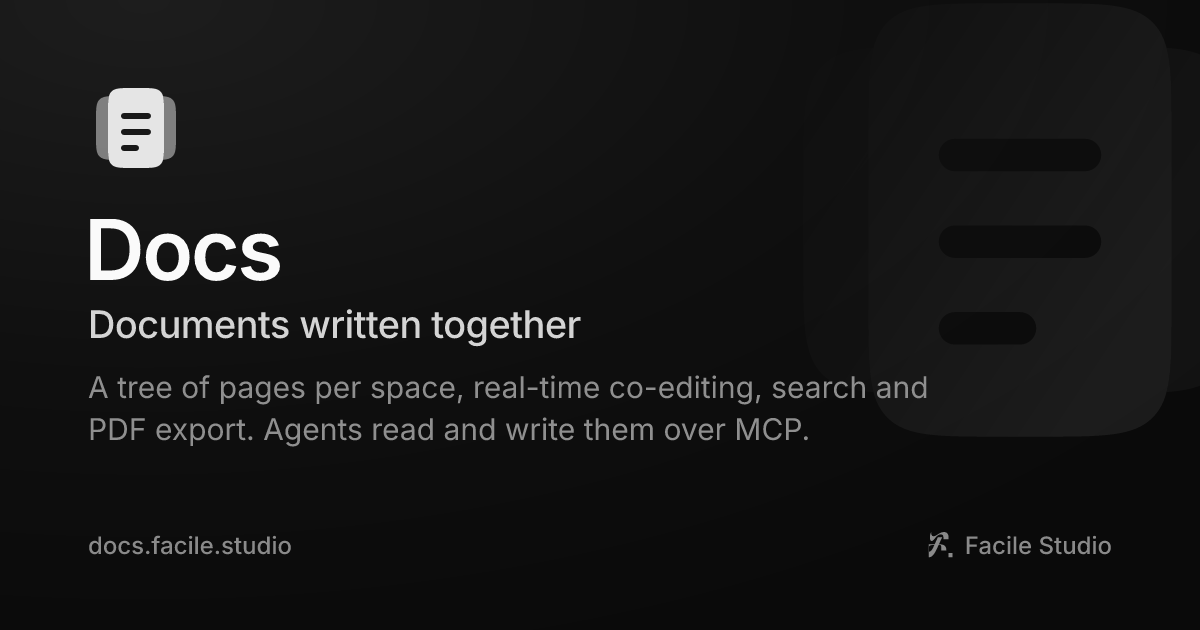
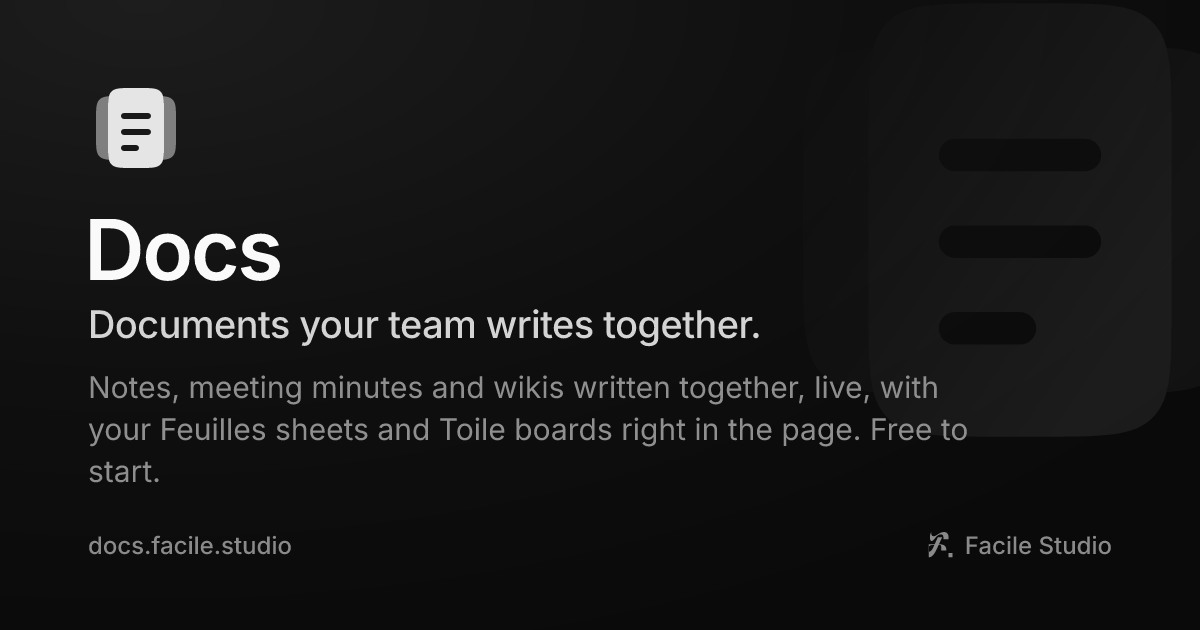
fix(client): show the new pitch in the link preview and manifest

diff --git a/apps/client/src/app.html b/apps/client/src/app.html
@@ -4,7 +4,7 @@
 		<meta charset="utf-8" />
 		<meta name="viewport" content="width=device-width, initial-scale=1" />
 		<meta name="color-scheme" content="light dark" />
-		<title>Docs · Documents your team writes together</title>
+		<title>Docs · Documents your team writes together.</title>
 		<meta name="description" content="Notes, meeting minutes and wikis written together, live, with your Feuilles sheets and Toile boards right in the page. Free to start." />
 		<link rel="icon" href="/favicon.svg" type="image/svg+xml" />
 		<link rel="icon" href="/favicon.ico" sizes="48x48" />
@@ -16,14 +16,14 @@
 		<meta property="og:site_name" content="Facile" />
 		<meta property="og:locale" content="en_US" />
 		<meta property="og:url" content="https://docs.facile.studio/" />
-		<meta property="og:title" content="Docs · Documents your team writes together" />
+		<meta property="og:title" content="Docs · Documents your team writes together." />
 		<meta property="og:description" content="Notes, meeting minutes and wikis written together, live, with your Feuilles sheets and Toile boards right in the page. Free to start." />
 		<meta property="og:image" content="https://docs.facile.studio/og-image.png" />
 		<meta property="og:image:width" content="1200" />
 		<meta property="og:image:height" content="630" />
-		<meta property="og:image:alt" content="Docs: Documents your team writes together" />
+		<meta property="og:image:alt" content="Docs: Documents your team writes together." />
 		<meta name="twitter:card" content="summary_large_image" />
-		<meta name="twitter:title" content="Docs · Documents your team writes together" />
+		<meta name="twitter:title" content="Docs · Documents your team writes together." />
 		<meta name="twitter:description" content="Notes, meeting minutes and wikis written together, live, with your Feuilles sheets and Toile boards right in the page. Free to start." />
 		<meta name="twitter:image" content="https://docs.facile.studio/og-image.png" />
 		<script>

diff --git a/apps/client/src/lib/components/Landing.svelte b/apps/client/src/lib/components/Landing.svelte
@@ -143,7 +143,7 @@
 			<ForDevelopers
 				{rows}
 				description={t('landing.dev.line')}
-				selfHostHref="https://suite.facile.studio/auto-hebergement"
+				selfHostHref={`https://suite.facile.studio/${locale() === 'fr' ? '' : `${locale()}/`}auto-hebergement`}
 			/>
 		</div>
 	</main>
